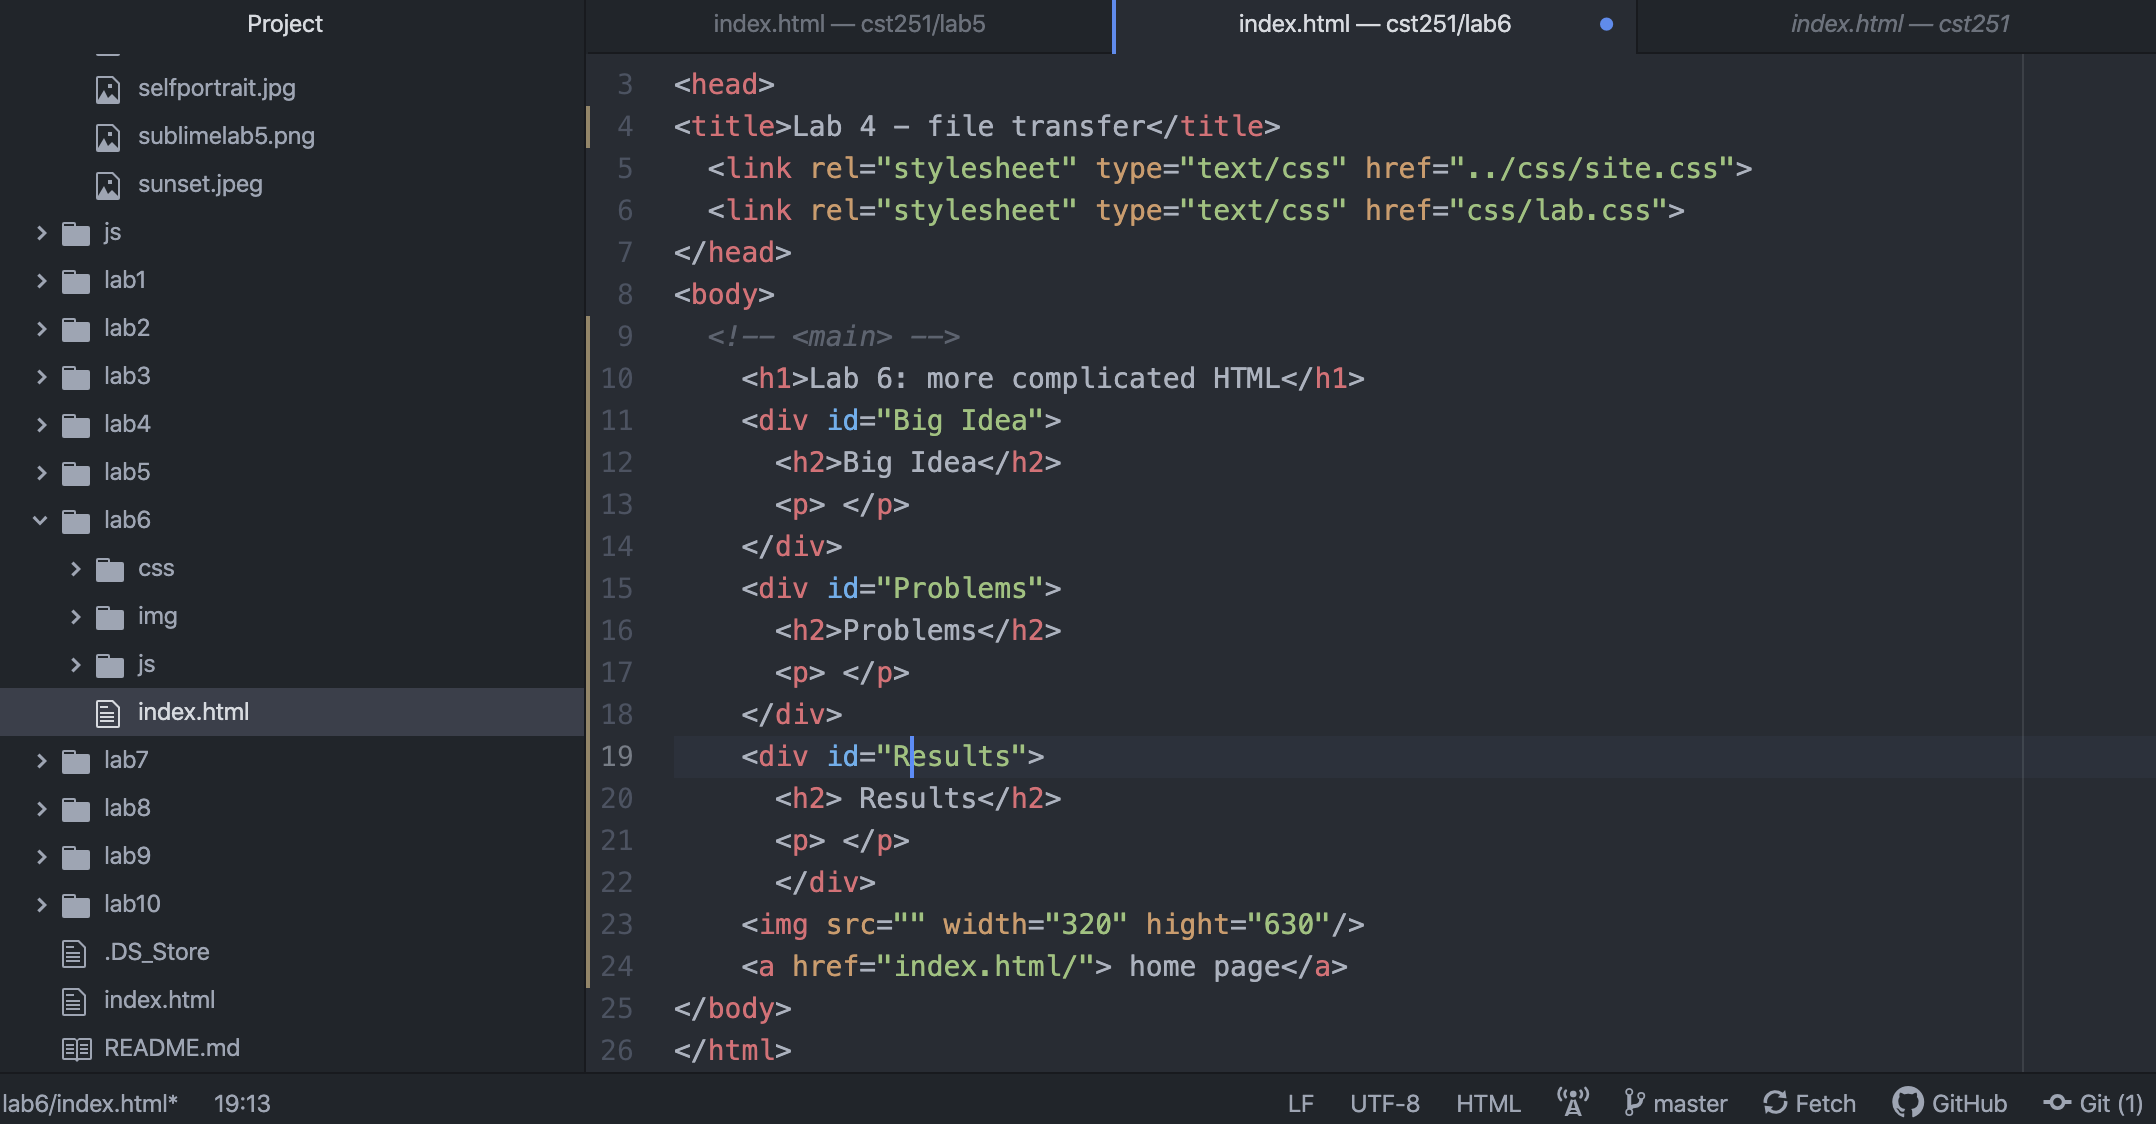
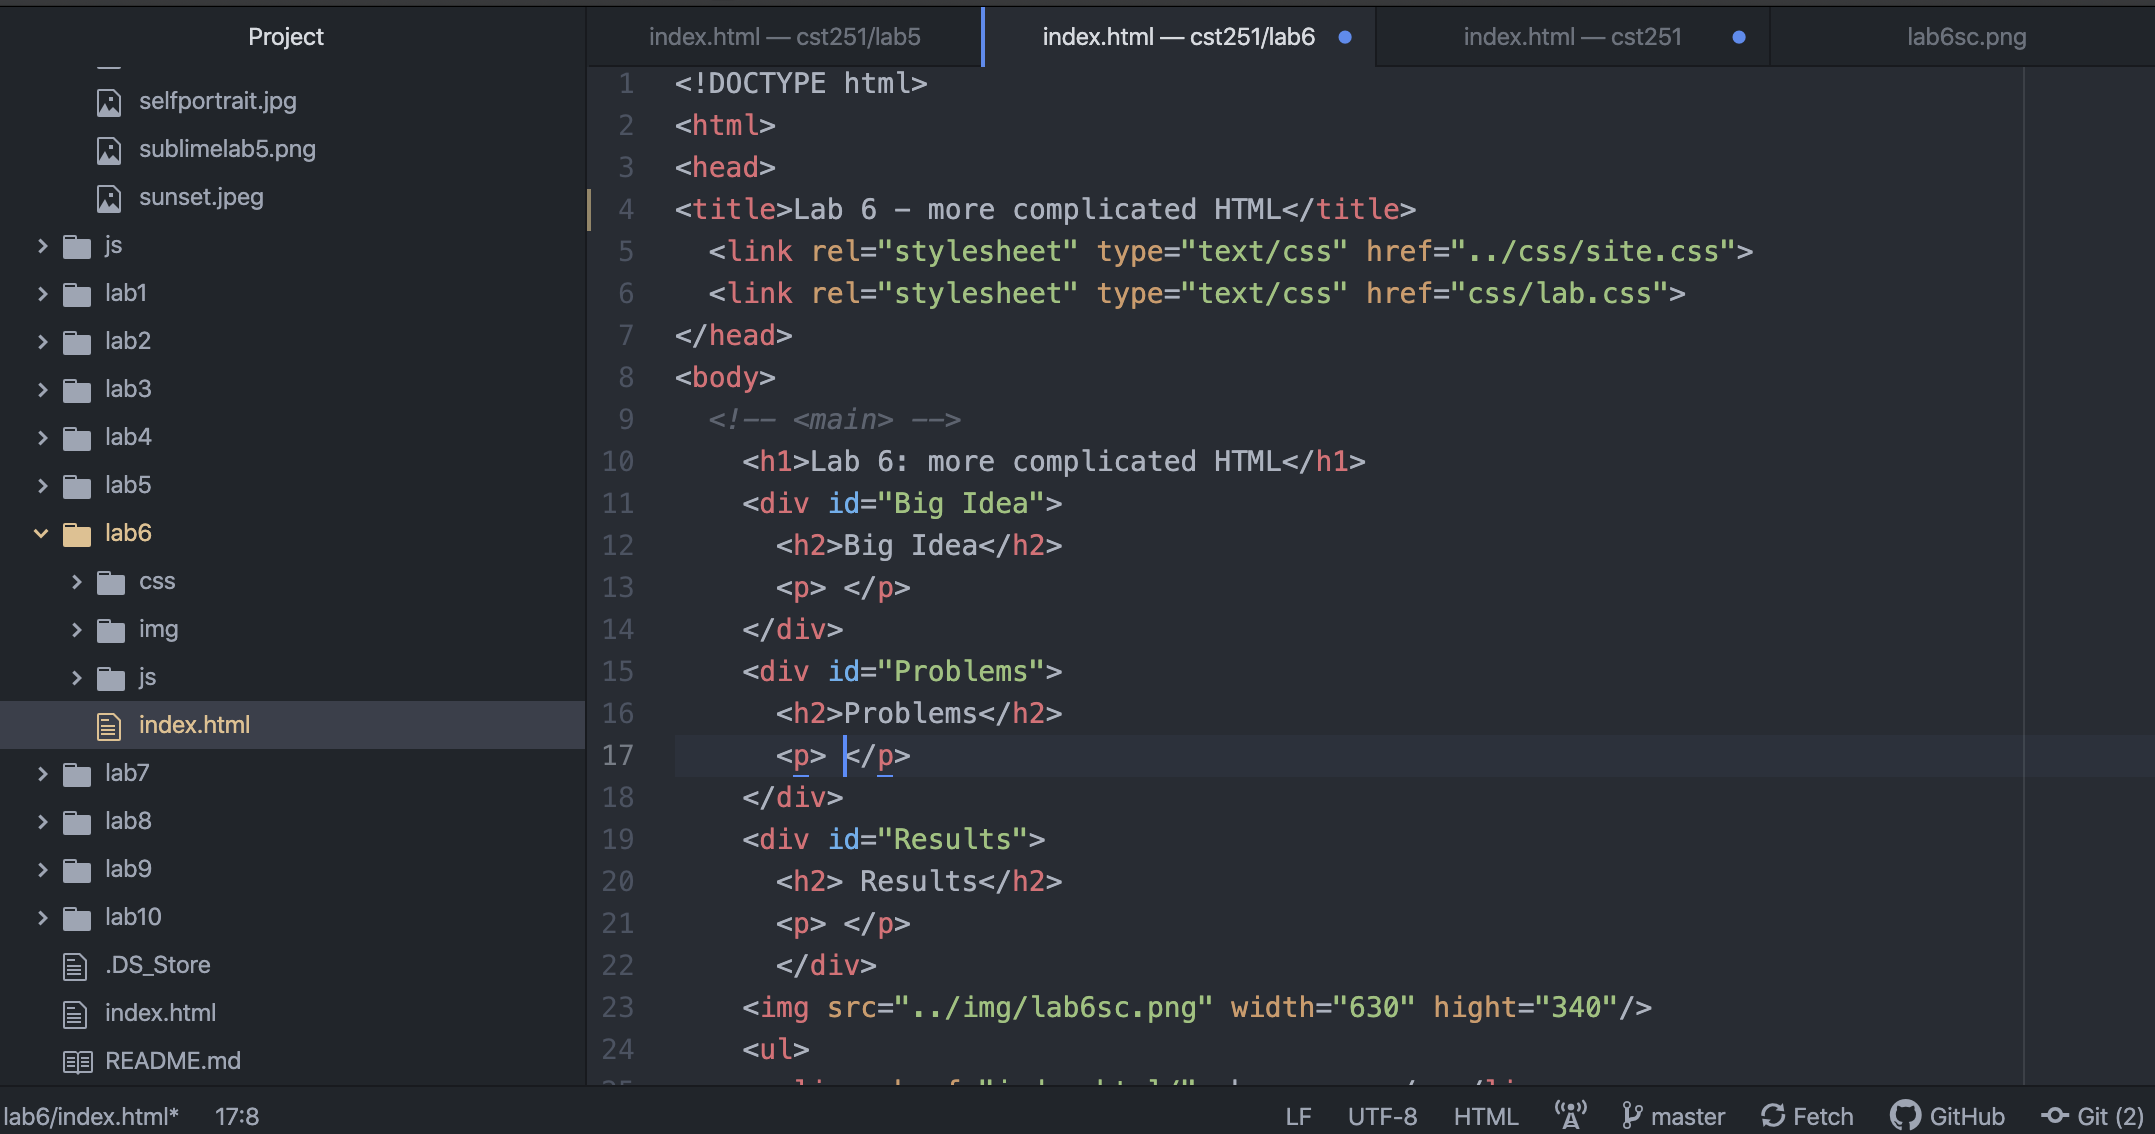
lab 6 pt 2

diff --git a/lab6/index.html b/lab6/index.html
@@ -1,7 +1,7 @@
 <!DOCTYPE html>
 <html>
 <head>
-<title>Lab 4 - file transfer</title>
+<title>Lab 6 - more complicated HTML</title>
 	<link rel="stylesheet" type="text/css" href="../css/site.css">
 	<link rel="stylesheet" type="text/css" href="css/lab.css">
 </head>
@@ -10,19 +10,21 @@
 		<h1>Lab 6: more complicated HTML</h1>
 		<div id="Big Idea">
 			<h2>Big Idea</h2>
-			<p> </p>
+			<p> the purpose of this assignment was to help practice linking, when and where to put a div and add a CSS file to our folder. </p>
 		</div>
 		<div id="Problems">
 			<h2>Problems</h2>
-			<p> </p>
+			<p> when I try to link my home page it wouldn't work. Also when I tried to add the CSS file it wouldn't load onto the cst file.</p>
 		</div>
 		<div id="Results">
 			<h2> Results</h2>
-			<p> </p>
+			<p> my link to my home screen still doesn't work and sara was able to help me with the css file and now works. </p>
 			</div>
 		<img src="../img/lab6sc.png" width="630" hight="340"/>
+	<div>
 		<ul>
 			<li><a href="index.html/"> home page</a></li>
 		</ul>
+	</div>
 </body>
 </html>

diff --git a/css/site.css b/css/site.css
@@ -1,0 +1,32 @@
+body {
+    font-family: Helvetica, Verdana, Arial, "san serif";
+    background-color: darkgray;
+    padding: 25px;
+    font-size: 120%;
+}
+
+div#content {
+    padding: 50px;
+    background-color: lightgray;
+    border: solid 1px #333333;
+    height: 80vh;
+}
+
+h1, h2, h3 {
+    font-family: "Courier New", monospace;
+}
+
+img {
+    float: right;
+    width: 400px;
+    height: auto;
+}
+
+a {
+    text-decoration: none;
+    color: maroon;
+}
+a:hover {
+    text-decoration: underline;
+    text-decoration-style: wavy;
+}
